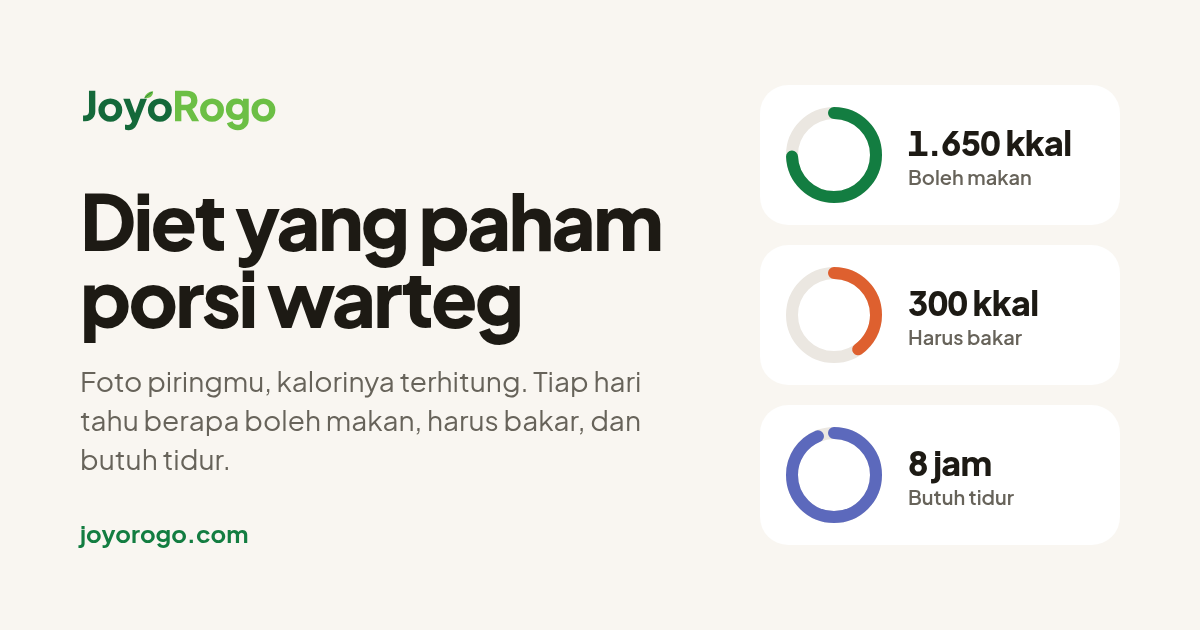
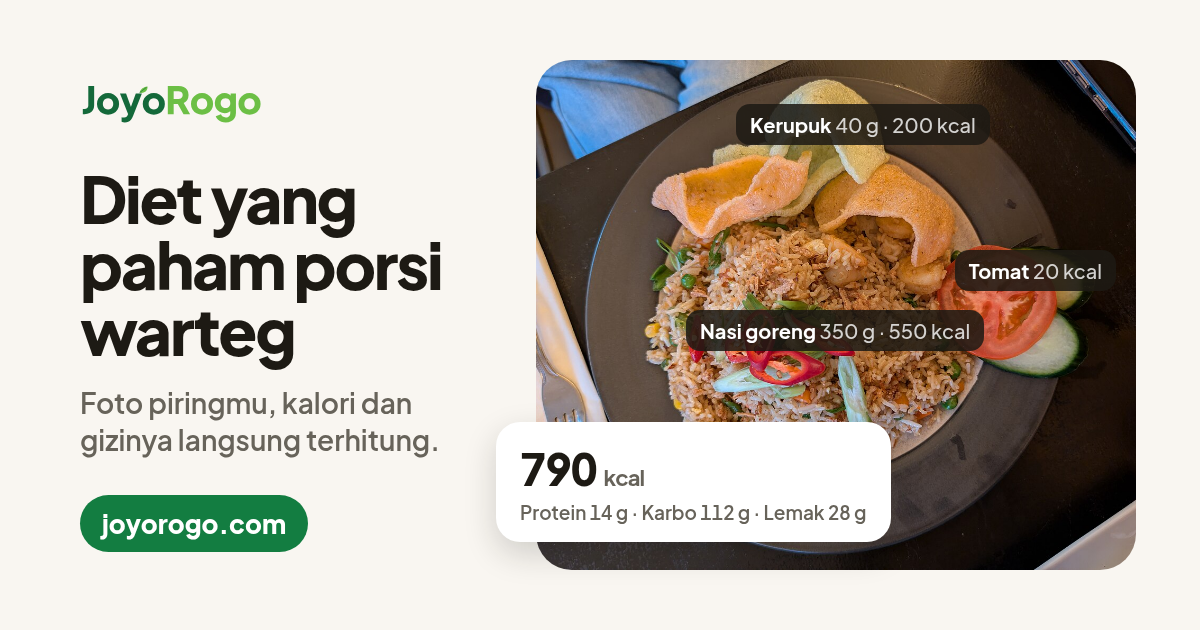
web: hero shows the scan result, OG image is a real scan of a CC0 nasi goreng photo

diff --git a/apps/web/og/og-image.html b/apps/web/og/og-image.html
@@ -1,5 +1,10 @@
 <!doctype html>
-<!-- Source of public/og.png (1200×630). Regenerate with `bun run og` in apps/web. -->
+<!--
+  Source of public/og.png (1200×630). Regenerate with `bun run og` in apps/web.
+  Photo: "Nasi Goreng with Prawn - Bali 2025-09-25" from Wikimedia Commons, CC0 (og/nasi-goreng.jpg).
+  Numbers: a real JoyoRogo scan of that photo (POST /ai/scan-anon, 2026-11-03): nasi goreng 350 g 550 kcal,
+  kerupuk 40 g 200 kcal, tomat 30 g 20 kcal, timun 30 g 20 kcal; protein 14 g, karbo 112 g, lemak 28 g.
+-->
 <html lang="id">
   <head>
     <meta charset="UTF-8" />
@@ -16,9 +21,6 @@
         --muted: oklch(0.5 0.014 85);
         --card: oklch(1 0 0);
         --makan: oklch(0.52 0.13 152);
-        --bakar: oklch(0.64 0.17 40);
-        --tidur: oklch(0.55 0.13 275);
-        --track: oklch(0.93 0.01 85);
       }
       * {
         margin: 0;
@@ -32,67 +34,93 @@
       }
       body {
         display: grid;
-        grid-template-columns: 1fr 360px;
-        gap: 56px;
+        grid-template-columns: 1fr 600px;
+        gap: 48px;
         align-items: center;
-        padding: 0 80px;
+        padding: 0 64px 0 80px;
         background: var(--background);
         color: var(--foreground);
         font-family: "Plus Jakarta Sans", sans-serif;
       }
       .logo {
-        height: 52px;
+        height: 48px;
       }
       h1 {
-        margin-top: 44px;
-        font-size: 76px;
-        line-height: 1.02;
+        margin-top: 36px;
+        font-size: 64px;
+        line-height: 1.03;
         font-weight: 800;
         letter-spacing: -0.035em;
       }
-      p {
-        margin-top: 24px;
+      .lead {
+        margin-top: 20px;
         font-size: 28px;
-        line-height: 1.4;
+        line-height: 1.35;
+        font-weight: 600;
         color: var(--muted);
-        max-width: 620px;
       }
       .url {
-        margin-top: 40px;
-        font-size: 24px;
+        display: inline-block;
+        margin-top: 36px;
+        padding: 12px 22px;
+        border-radius: 999px;
+        background: var(--makan);
+        color: white;
+        font-size: 26px;
+        font-weight: 800;
+      }
+      .plate {
+        position: relative;
+        height: 510px;
+      }
+      .plate img {
+        width: 100%;
+        height: 100%;
+        object-fit: cover;
+        object-position: 42% 50%;
+        border-radius: 36px;
+      }
+      .tag {
+        position: absolute;
+        padding: 8px 14px;
+        border-radius: 14px;
+        background: oklch(0.22 0.012 85 / 0.86);
+        color: white;
+        font-size: 20px;
         font-weight: 700;
-        color: var(--makan);
+        white-space: nowrap;
       }
-      .rings {
-        display: flex;
-        flex-direction: column;
-        gap: 20px;
+      .tag span {
+        font-weight: 500;
+        opacity: 0.8;
       }
-      .ring {
-        display: flex;
-        align-items: center;
-        gap: 22px;
-        padding: 18px 22px;
-        border-radius: 28px;
+      .total {
+        position: absolute;
+        left: -40px;
+        bottom: 28px;
+        padding: 18px 24px;
+        border-radius: 24px;
         background: var(--card);
+        box-shadow: 0 12px 32px oklch(0.22 0.012 85 / 0.18);
       }
-      .ring svg {
-        width: 104px;
-        height: 104px;
-        flex-shrink: 0;
-        transform: rotate(-90deg);
-      }
-      .ring b {
+      .total b {
         display: block;
-        font-size: 34px;
+        font-size: 44px;
         font-weight: 800;
         letter-spacing: -0.02em;
         font-variant-numeric: tabular-nums;
       }
-      .ring span {
-        font-size: 20px;
+      .total b small {
+        font-size: 22px;
+        font-weight: 700;
+        color: var(--muted);
+      }
+      .total p {
+        margin-top: 4px;
+        font-size: 19px;
         font-weight: 600;
         color: var(--muted);
+        font-variant-numeric: tabular-nums;
       }
     </style>
   </head>
@@ -100,61 +128,17 @@
     <div>
       <img class="logo" src="../public/brand/logo.svg" alt="" />
       <h1>Diet yang paham porsi warteg</h1>
-      <p>
-        Foto piringmu, kalorinya terhitung. Tiap hari tahu berapa boleh makan, harus bakar, dan
-        butuh tidur.
-      </p>
+      <p class="lead">Foto piringmu, kalori dan gizinya langsung terhitung.</p>
       <div class="url">joyorogo.com</div>
     </div>
-    <div class="rings">
-      <!-- Circumference of r=42 is 263.9; dash = share filled, as on the landing. -->
-      <div class="ring">
-        <svg viewBox="0 0 104 104">
-          <circle cx="52" cy="52" r="42" fill="none" stroke="var(--track)" stroke-width="12" />
-          <circle
-            cx="52"
-            cy="52"
-            r="42"
-            fill="none"
-            stroke="var(--makan)"
-            stroke-width="12"
-            stroke-linecap="round"
-            stroke-dasharray="196 264"
-          />
-        </svg>
-        <div><b>1.650 kkal</b><span>Boleh makan</span></div>
-      </div>
-      <div class="ring">
-        <svg viewBox="0 0 104 104">
-          <circle cx="52" cy="52" r="42" fill="none" stroke="var(--track)" stroke-width="12" />
-          <circle
-            cx="52"
-            cy="52"
-            r="42"
-            fill="none"
-            stroke="var(--bakar)"
-            stroke-width="12"
-            stroke-linecap="round"
-            stroke-dasharray="106 264"
-          />
-        </svg>
-        <div><b>300 kkal</b><span>Harus bakar</span></div>
-      </div>
-      <div class="ring">
-        <svg viewBox="0 0 104 104">
-          <circle cx="52" cy="52" r="42" fill="none" stroke="var(--track)" stroke-width="12" />
-          <circle
-            cx="52"
-            cy="52"
-            r="42"
-            fill="none"
-            stroke="var(--tidur)"
-            stroke-width="12"
-            stroke-linecap="round"
-            stroke-dasharray="247 264"
-          />
-        </svg>
-        <div><b>8 jam</b><span>Butuh tidur</span></div>
+    <div class="plate">
+      <img src="nasi-goreng.jpg" alt="" />
+      <div class="tag" style="left: 150px; top: 250px">Nasi goreng <span>350 g · 550 kcal</span></div>
+      <div class="tag" style="left: 200px; top: 44px">Kerupuk <span>40 g · 200 kcal</span></div>
+      <div class="tag" style="right: 20px; top: 190px">Tomat <span>20 kcal</span></div>
+      <div class="total">
+        <b>790 <small>kcal</small></b>
+        <p>Protein 14 g · Karbo 112 g · Lemak 28 g</p>
       </div>
     </div>
   </body>

diff --git a/apps/web/src/routes/index.tsx b/apps/web/src/routes/index.tsx
@@ -439,12 +439,13 @@ function Landing() {
       <PublicHeader />
 
       <main>
-        {/* Hero */}
+        {/* Hero. On phones the buttons stay above the fold and the scan shot follows them; on desktop the shot spans
+            the right column. */}
         <section
           data-section="hero"
-          className="mx-auto grid w-full max-w-6xl items-center gap-12 px-4 pt-8 pb-14 md:grid-cols-[1.05fr_1fr] md:gap-8 md:px-6 md:pt-14 md:pb-20"
+          className="mx-auto grid w-full max-w-6xl items-center gap-x-8 gap-y-6 px-4 pt-8 pb-14 md:grid-cols-[1.05fr_1fr] md:grid-rows-[auto_auto] md:px-6 md:pt-14 md:pb-20"
         >
-          <div className="stagger-enter">
+          <div className="stagger-enter md:self-end">
             <h1 className="max-w-xl text-[2.625rem] leading-[1.04] font-extrabold tracking-tight text-balance md:text-[4rem]">
               Diet yang paham porsi warteg
             </h1>
@@ -453,27 +454,25 @@ function Landing() {
               tiga angka: berapa lagi yang boleh kamu makan, berapa yang perlu dibakar, dan butuh
               tidur berapa jam.
             </p>
-            <div className="mt-8 flex flex-wrap items-center gap-3">
-              <Button
-                size="lg"
-                render={
-                  <a
-                    href="#coba"
-                    data-revklik-goal="try_scan_click"
-                    data-revklik-goal-location="hero"
-                  />
-                }
-              >
-                Coba gratis
-              </Button>
-              <AppDownload location="hero" />
-            </div>
-            <p className="mt-4 text-sm text-muted-foreground">
+          </div>
+          <HeroShot className="order-last md:order-none md:col-start-2 md:row-span-2 md:row-start-1" />
+          <div className="-mt-1 md:mt-0 md:self-start">
+            <Button
+              size="lg"
+              render={
+                <a href="#coba" data-revklik-goal="try_scan_click" data-revklik-goal-location="hero" />
+              }
+            >
+              Coba gratis
+            </Button>
+            <p className="mt-3 text-sm text-muted-foreground">
               {config.data?.anonScans ? `${config.data.anonScans} foto pertama tanpa daftar. ` : ""}
               Foto tidak disimpan.
             </p>
+            <div className="mt-5 flex flex-wrap items-center gap-3">
+              <AppDownload location="hero" />
+            </div>
           </div>
-          <HeroShot />
         </section>
 
         {/* Founder intro price, while slots last — after the hero so the
@@ -633,14 +632,14 @@ function Landing() {
               <ScanDemo />
               <figure className="mt-6 flex flex-col items-center gap-5 rounded-[1.75rem] bg-background p-5 sm:flex-row">
                 <PhoneShot
-                  shot="scan"
-                  alt="Layar hasil scan AI: total 400 kkal, soto daging dan bawang goreng dengan kolom kalori yang bisa diubah dan pilihan nama lain"
+                  shot="beranda"
+                  alt="Beranda JoyoRogo: sisa 735 kkal hari ini dari target 1.635, protein, aktivitas, tidur, air, dan berat"
                   className="w-[min(100%,13rem)] shrink-0"
                 />
                 <figcaption className="text-[0.9375rem] leading-relaxed text-muted-foreground">
-                  <span className="block font-bold text-foreground">Hasil scan di aplikasi</span>
-                  Tiap item punya kolom kalori yang bisa kamu ubah sebelum disimpan. Di sini porsi
-                  nasinya dikecilkan dan total kalorinya langsung ikut berubah.
+                  <span className="block font-bold text-foreground">Lalu masuk ke Beranda</span>
+                  Hasil scan yang kamu simpan langsung mengurangi sisa kalori hari ini, lengkap
+                  dengan protein, karbo, dan lemaknya.
                 </figcaption>
               </figure>
             </div>

diff --git a/apps/web/src/components/landing/phone-frame.tsx b/apps/web/src/components/landing/phone-frame.tsx
@@ -77,10 +77,14 @@ export function BrowserShot({ alt, className }: { alt: string; className?: strin
   );
 }
 
-/** Hero: Beranda in a phone on a solid stage, real food cutouts peeking from the corners (decorative). */
-export function HeroShot() {
+/**
+ * Hero: the scan result (photo → kcal, grams and macros per item) in a phone on a solid stage, real food cutouts
+ * peeking from the corners (decorative). On phones the shot sits between the headline and the buttons, so it is
+ * cropped to its top (total and first item) and fades out instead of pushing the buttons below the fold.
+ */
+export function HeroShot({ className }: { className?: string }) {
   return (
-    <figure className="reveal-in relative mx-auto w-full max-w-[22rem] md:max-w-[26rem]">
+    <figure className={cn("reveal-in relative mx-auto w-full max-w-[22rem] md:max-w-[26rem]", className)}>
       <div
         aria-hidden
         className="absolute inset-x-4 top-10 bottom-6 rounded-[2.5rem] bg-makan-soft md:inset-x-0"
@@ -91,7 +95,7 @@ export function HeroShot() {
         width={320}
         height={308}
         decoding="async"
-        className="absolute -top-5 right-1 z-10 w-20 rotate-6 md:-right-4 md:top-6 md:w-28"
+        className="absolute -top-3 right-3 z-10 w-16 rotate-6 md:-right-4 md:top-6 md:w-28"
       />
       <img
         src="/food/ayam-bumbu-kuning.webp"
@@ -101,12 +105,14 @@ export function HeroShot() {
         decoding="async"
         className="absolute -right-2 bottom-16 z-10 hidden w-24 -rotate-6 md:-right-14 md:bottom-24 md:block md:w-32 md:animate-drift"
       />
-      <PhoneShot
-        shot="beranda"
-        priority
-        alt="Beranda JoyoRogo: sisa 735 kkal hari ini dari target 1.635, protein, aktivitas, tidur, air, dan berat"
-        className="relative my-8 w-[min(100%,17.5rem)]"
-      />
+      <div className="relative max-h-[22rem] overflow-hidden [mask-image:linear-gradient(to_bottom,black_75%,transparent)] md:max-h-none md:overflow-visible md:[mask-image:none]">
+        <PhoneShot
+          shot="scan"
+          priority
+          alt="Hasil scan foto di JoyoRogo: total 400 kkal, soto daging 350 kkal (1 mangkuk, ±400 g, protein 20 g, karbo 25 g, lemak 18 g) dan bawang goreng 50 kkal"
+          className="mt-4 w-[min(100%,13.5rem)] md:my-8 md:w-[min(100%,17.5rem)]"
+        />
+      </div>
       <figcaption className="relative pb-2 text-center text-xs text-muted-foreground">
         Tampilan asli aplikasi, dengan data contoh.
       </figcaption>

diff --git a/apps/web/src/lib/seo.ts b/apps/web/src/lib/seo.ts
@@ -9,7 +9,7 @@ export const OG_IMAGE = {
   path: "/og.png",
   width: 1200,
   height: 630,
-  alt: "JoyoRogo: diet yang paham porsi warteg. Tiga angka harian: boleh makan, harus bakar, butuh tidur.",
+  alt: "JoyoRogo: diet yang paham porsi warteg. Foto nasi goreng dengan hasil scan: nasi goreng 350 g 550 kcal, kerupuk 200 kcal, total 790 kcal, protein 14 g, karbo 112 g, lemak 28 g.",
 } as const;
 
 /** Share card for the Malaysian landing (og/og-my.html, `bun run og:my`). */
